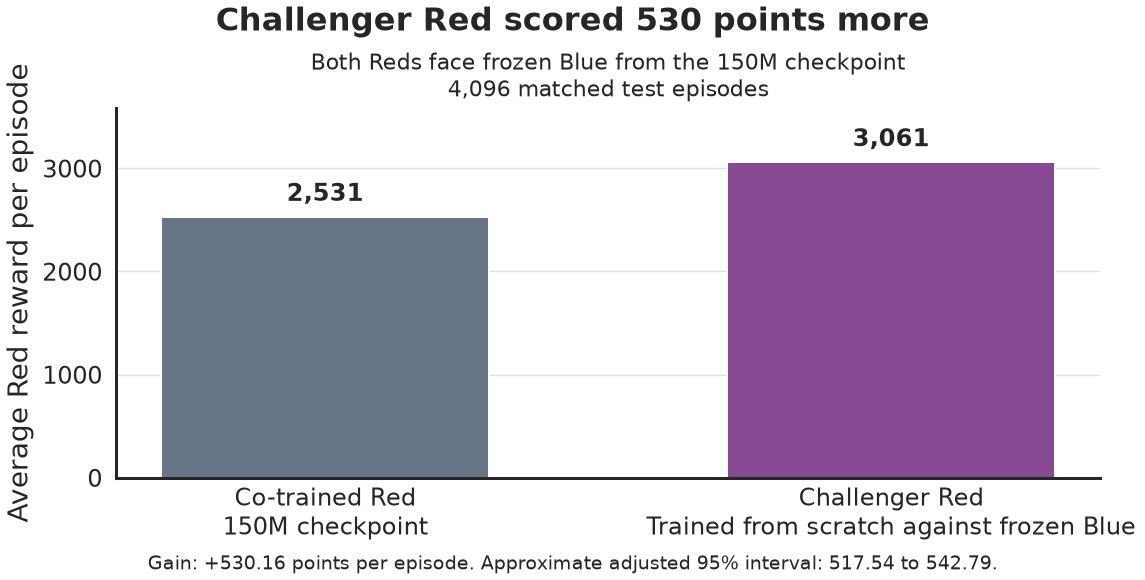
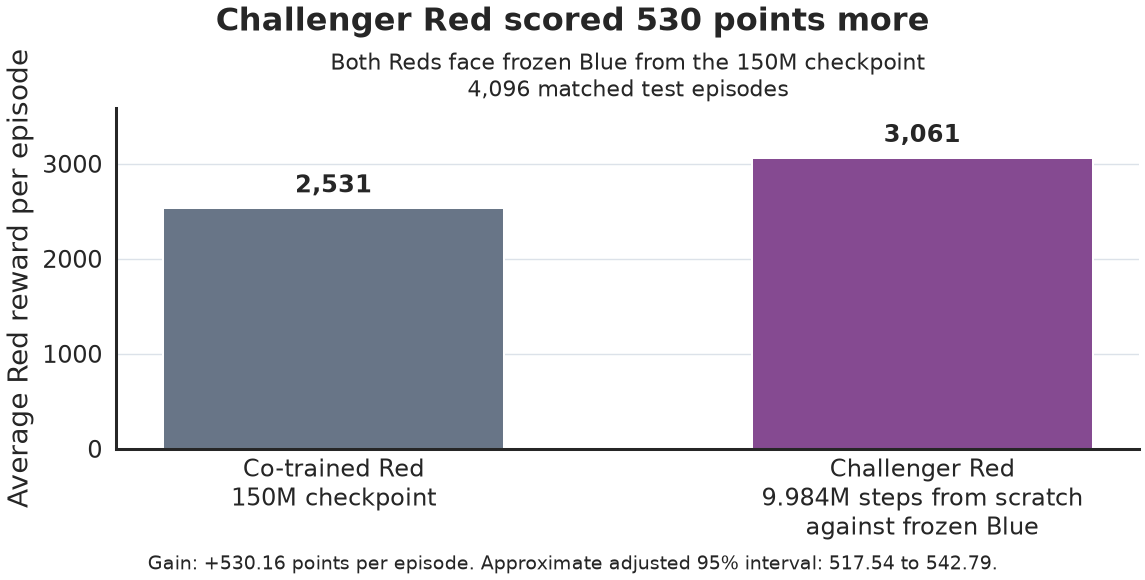
Document the challenger budget and show the full matchup matrix

diff --git a/studies/nash-co-training/plot_brief.py b/studies/nash-co-training/plot_brief.py
@@ -34,7 +34,10 @@ def return_axis(ax):
     ax.axvline(0, color=INK, linewidth=1.2)
 
 
-def fresh_red(row, original, adapted):
+def fresh_red(row, original_matchup, challenger_matchup):
+    original = float(original_matchup["red_mean_return"])
+    adapted = float(challenger_matchup["red_mean_return"])
+    challenger_steps = int(challenger_matchup["red_steps"])
     gain, low, high = interval(row)
     if not isclose(adapted - original, gain):
         raise ValueError("Confirmation means disagree with the paired gain")
@@ -43,7 +46,10 @@ def fresh_red(row, original, adapted):
     fig.suptitle(f"Challenger Red scored {gain:.0f} points more", fontweight="bold")
     ax.set_title("Both Reds face frozen Blue from the 150M checkpoint\n4,096 matched test episodes", fontsize=11)
     bars = ax.bar(
-        ("Co-trained Red\n150M checkpoint", "Challenger Red\nTrained from scratch against frozen Blue"),
+        (
+            "Co-trained Red\n150M checkpoint",
+            f"Challenger Red\n{challenger_steps / 1e6:g}M steps from scratch\nagainst frozen Blue",
+        ),
         (original, adapted),
         width=0.58,
         color=("#687587", LATER),
@@ -102,15 +108,15 @@ def main():
         if row["family"] == "fresh_response_4" and row["contrast"] == "selected_red_gain_at_blue150000000"
     )
     with (args.analysis / "matchups.csv").open(encoding="utf-8", newline="") as stream:
-        confirmation_means = {
-            row["source_run_id"]: float(row["red_mean_return"])
+        confirmation = {
+            row["source_run_id"]: row
             for row in csv.DictReader(stream)
             if row["study"] == "matched-red-response"
             and row["cohort"] == "confirmation"
             and row["status"] == "complete"
         }
-    original = confirmation_means[response["second_eval_reference"]]
-    adapted = confirmation_means[response["first_eval_reference"]]
+    original = confirmation[response["second_eval_reference"]]
+    adapted = confirmation[response["first_eval_reference"]]
     saved = {
         row["opponent_steps_or_panel"]: row
         for row in rows

diff --git a/studies/nash-co-training/brief.md b/studies/nash-co-training/brief.md
@@ -9,7 +9,7 @@
 
 ## Method
 
-- **Train a new attacker.** Freeze Blue at the 150M checkpoint and train challenger Reds from scratch against it. Select an attacker from saved and newly trained candidates on separate episodes, then compare it with the original Red on 4,096 matched test episodes.
+- **Train a new attacker.** Freeze Blue at the 150M checkpoint and train challenger Reds from scratch against it. Each challenger completed **9,984,000 simulation steps** of a planned 10 million. Select an attacker from saved and newly trained candidates on separate episodes, then compare it with the original Red on 4,096 matched test episodes.
 - **Swap saved opponents.** Take both Red and Blue from the same three checkpoints in one co-training run, at 99.84M, 124.8M, and 150M simulation steps. Play all nine Red–Blue pairings and run each pairing through the same 4,096 simulation setups.
 
 ## Results
@@ -30,7 +30,18 @@ We compared the same two saved attackers against each defender. The earlier atta
 
 The final co-trained pair still gave Red room to improve by switching strategies. The saved matchups show why a score against one opponent tells us about that matchup. Robustness across opponents takes a wider test.
 
-These results come from one co-training run and one simulated network. Each new attacker trained for about 10M simulation steps. How much more an attacker could gain, and whether the pattern holds across other runs and networks, remain open questions.
+The 150M study also tested earlier saved Blues against frozen Red150. Training a fresh Blue challenger against Red150 remains open for this pair.
+
+These results come from one co-training run and one simulated network. How much more an attacker could gain, and whether the pattern holds across other runs and networks, remain open questions.
+
+<details>
+<summary>Full nine-matchup matrix</summary>
+
+Each row holds one Blue checkpoint fixed. Each column uses one saved Red checkpoint. The colored cells show average **Blue** reward. Higher values favor Blue. The right panel shows the same Red comparison as the simpler bar chart above.
+
+![The complete three-by-three CPU payoff matrix and paired Red comparison across three fixed Blue opponents.](brief-figures/cpu-saved-policy-crossplay.png)
+
+</details>
 
 <details>
 <summary>Exact values and study evidence</summary>

diff --git a/studies/nash-co-training/reproduce.md b/studies/nash-co-training/reproduce.md
@@ -80,7 +80,8 @@ draws the retained simultaneous intervals.
 ```
 
 The figures directory must be new. The script writes PNG and SVG versions of
-the fresh Red response contrasts and CPU cross-play comparison.
+the fresh Red response contrasts and CPU cross-play comparison. The CPU PNG
+is also the full matrix shown in the research brief.
 
 The [research brief](brief.md) uses the replay’s matchup means and paired
 contrasts. Regenerate the charts in a new directory.
